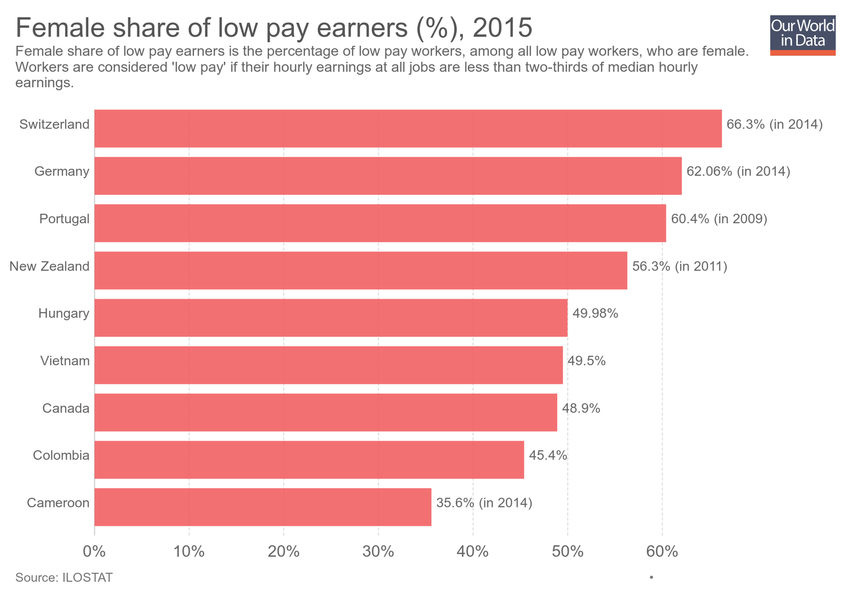
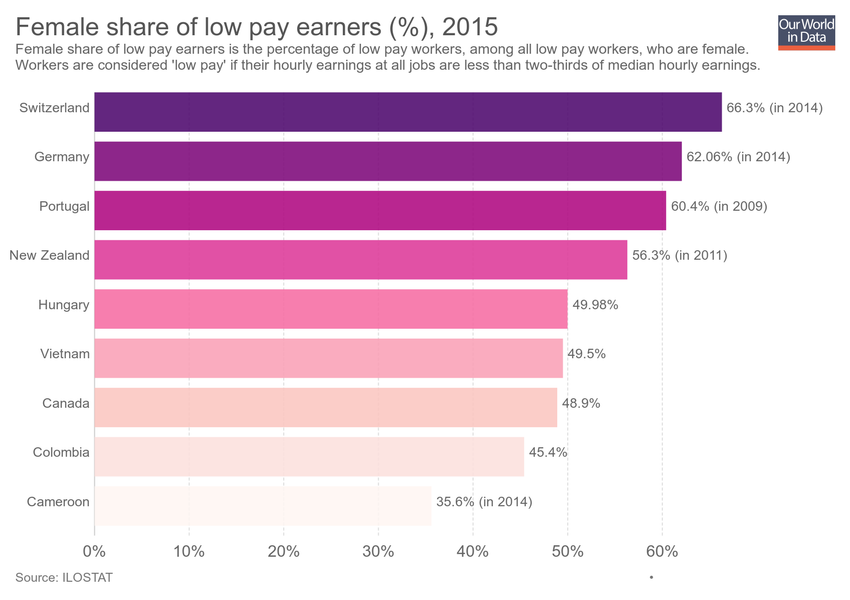
Updating chart female-share-of-low-pay-earners

diff --git a/grapher/female-share-of-low-pay-earners.html b/grapher/female-share-of-low-pay-earners.html
@@ -1,4 +1,4 @@
-<!doctype html><html><head><meta name="viewport" content="width=device-width, initial-scale=1" /><title>Female share of low pay earners (%) - Our World in Data</title><meta name="description" content="Female share of low pay earners is the percentage of low pay workers, among all low pay workers, who are female. Workers are considered 'low pay' if their hourly earnings at all jobs are less than two-thirds of median hourly earnings." /><link rel="canonical" href="https://ourworldindata.org/grapher/female-share-of-low-pay-earners" /><meta property="fb:app_id" content="1149943818390250" /><meta property="og:url" content="https://ourworldindata.org/grapher/female-share-of-low-pay-earners" /><meta property="og:title" content="Female share of low pay earners (%)" /><meta property="og:description" content="Female share of low pay earners is the percentage of low pay workers, among all low pay workers, who are female. Workers are considered 'low pay' if their hourly earnings at all jobs are less than two-thirds of median hourly earnings." /><meta property="og:image" content="https://ourworldindata.org/grapher/exports/female-share-of-low-pay-earners.png?v=1" /><meta property="og:image:width" content="850" /><meta property="og:image:height" content="600" /><meta property="og:site_name" content="Our World in Data" /><meta name="twitter:card" content="summary_large_image" /><meta name="twitter:site" content="@OurWorldInData" /><meta name="twitter:creator" content="@OurWorldInData" /><meta name="twitter:title" content="Female share of low pay earners (%)" /><meta name="twitter:description" content="Female share of low pay earners is the percentage of low pay workers, among all low pay workers, who are female. Workers are considered 'low pay' if their hourly earnings at all jobs are less than two-thirds of median hourly earnings." /><meta name="twitter:image" content="https://ourworldindata.org/grapher/exports/female-share-of-low-pay-earners.png?v=1" /><style>
+<!doctype html><html><head><meta name="viewport" content="width=device-width, initial-scale=1" /><title>Female share of low pay earners (%) - Our World in Data</title><meta name="description" content="Female share of low pay earners is the percentage of low pay workers, among all low pay workers, who are female. Workers are considered 'low pay' if their hourly earnings at all jobs are less than two-thirds of median hourly earnings." /><link rel="canonical" href="https://ourworldindata.org/grapher/female-share-of-low-pay-earners" /><meta property="fb:app_id" content="1149943818390250" /><meta property="og:url" content="https://ourworldindata.org/grapher/female-share-of-low-pay-earners" /><meta property="og:title" content="Female share of low pay earners (%)" /><meta property="og:description" content="Female share of low pay earners is the percentage of low pay workers, among all low pay workers, who are female. Workers are considered 'low pay' if their hourly earnings at all jobs are less than two-thirds of median hourly earnings." /><meta property="og:image" content="https://ourworldindata.org/grapher/exports/female-share-of-low-pay-earners.png?v=3" /><meta property="og:image:width" content="850" /><meta property="og:image:height" content="600" /><meta property="og:site_name" content="Our World in Data" /><meta name="twitter:card" content="summary_large_image" /><meta name="twitter:site" content="@OurWorldInData" /><meta name="twitter:creator" content="@OurWorldInData" /><meta name="twitter:title" content="Female share of low pay earners (%)" /><meta name="twitter:description" content="Female share of low pay earners is the percentage of low pay workers, among all low pay workers, who are female. Workers are considered 'low pay' if their hourly earnings at all jobs are less than two-thirds of median hourly earnings." /><meta name="twitter:image" content="https://ourworldindata.org/grapher/exports/female-share-of-low-pay-earners.png?v=3" /><style>
         html, body {
             height: 100%;
             margin: 0;
@@ -20,8 +20,8 @@
         }
     </style><noscript><style>
                     figure { display: none !important; }
-                </style></noscript><link rel="stylesheet" href="https://ourworldindata.org/grapher/assets/commons.bundle.62f8703dfc964fd3975c.css" /><link rel="preload" href="/grapher/data/variables/65810.json?v=1" as="fetch" crossorigin /></head><body class="singleChart"><figure data-grapher-src="/grapher/female-share-of-low-pay-earners"></figure><noscript id="fallback"><img src="/grapher/exports/female-share-of-low-pay-earners.svg" /><p>Interactive visualization requires JavaScript</p></noscript><script src="https://cdn.polyfill.io/v2/polyfill.min.js?features=es6,fetch"></script><script src="https://ourworldindata.org/grapher/assets/commons.bundle.62f8703dfc964fd3975c.js"></script><script src="https://ourworldindata.org/grapher/assets/charts.bundle.dcf65b68eddaba4c6a58.js"></script><script>
-        var jsonConfig = {"map":{"projection":"World","targetYear":2015,"variableId":65810,"binStepSize":15,"hideTimeline":true,"timeTolerance":10,"colorSchemeLabels":[],"colorSchemeValues":[],"defaultProjection":"World","colorSchemeMinValue":0,"customNumericColors":[],"customCategoryColors":{},"customCategoryLabels":{},"customHiddenCategories":{}},"tab":"chart","slug":"female-share-of-low-pay-earners","type":"DiscreteBar","title":"Female share of low pay earners (%)","xAxis":{"scaleType":"linear"},"yAxis":{"min":0,"scaleType":"linear"},"version":1,"subtitle":"Female share of low pay earners is the percentage of low pay workers, among all low pay workers, who are female. Workers are considered 'low pay' if their hourly earnings at all jobs are less than two-thirds of median hourly earnings.","hasMapTab":true,"stackMode":"absolute","dimensions":[{"display":{"tolerance":10},"property":"y","variableId":65810}],"isAutoSlug":true,"hasChartTab":true,"isAutoTitle":true,"isPublished":true,"selectedData":[{"index":0,"entityId":106},{"index":0,"entityId":170},{"index":0,"entityId":6},{"index":0,"entityId":43},{"index":0,"entityId":138},{"index":0,"entityId":7},{"index":0,"entityId":84},{"index":0,"entityId":44},{"index":0,"entityId":95}],"addCountryMode":"add-country","id":1884};
+                </style></noscript><link rel="stylesheet" href="https://ourworldindata.org/grapher/assets/commons.bundle.62f8703dfc964fd3975c.css" /><link rel="preload" href="/grapher/data/variables/65810.json?v=3" as="fetch" crossorigin /></head><body class="singleChart"><figure data-grapher-src="/grapher/female-share-of-low-pay-earners"></figure><noscript id="fallback"><img src="/grapher/exports/female-share-of-low-pay-earners.svg" /><p>Interactive visualization requires JavaScript</p></noscript><script src="https://cdn.polyfill.io/v2/polyfill.min.js?features=es6,fetch"></script><script src="https://ourworldindata.org/grapher/assets/commons.bundle.62f8703dfc964fd3975c.js"></script><script src="https://ourworldindata.org/grapher/assets/charts.bundle.dcf65b68eddaba4c6a58.js"></script><script>
+        var jsonConfig = {"id":1884,"map":{"projection":"World","targetYear":2015,"variableId":65810,"binStepSize":15,"hideTimeline":true,"timeTolerance":10,"baseColorScheme":"RdPu","colorSchemeLabels":[],"colorSchemeValues":[],"colorSchemeMinValue":0,"customNumericColors":[],"customCategoryColors":{},"customCategoryLabels":{},"customHiddenCategories":{}},"tab":"chart","slug":"female-share-of-low-pay-earners","type":"DiscreteBar","title":"Female share of low pay earners (%)","xAxis":{"scaleType":"linear"},"yAxis":{"min":0,"scaleType":"linear"},"version":3,"subtitle":"Female share of low pay earners is the percentage of low pay workers, among all low pay workers, who are female. Workers are considered 'low pay' if their hourly earnings at all jobs are less than two-thirds of median hourly earnings.","hasMapTab":true,"stackMode":"absolute","dimensions":[{"display":{"tolerance":10},"property":"y","variableId":65810}],"hasChartTab":true,"isAutoTitle":true,"isPublished":true,"selectedData":[{"index":0,"entityId":106},{"index":0,"entityId":170},{"index":0,"entityId":6},{"index":0,"entityId":43},{"index":0,"entityId":138},{"index":0,"entityId":7},{"index":0,"entityId":84},{"index":0,"entityId":44},{"index":0,"entityId":95}],"addCountryMode":"add-country","baseColorScheme":"RdPu"};
         var figure = document.getElementsByTagName("figure")[0];
         try {
             window.App = {};
